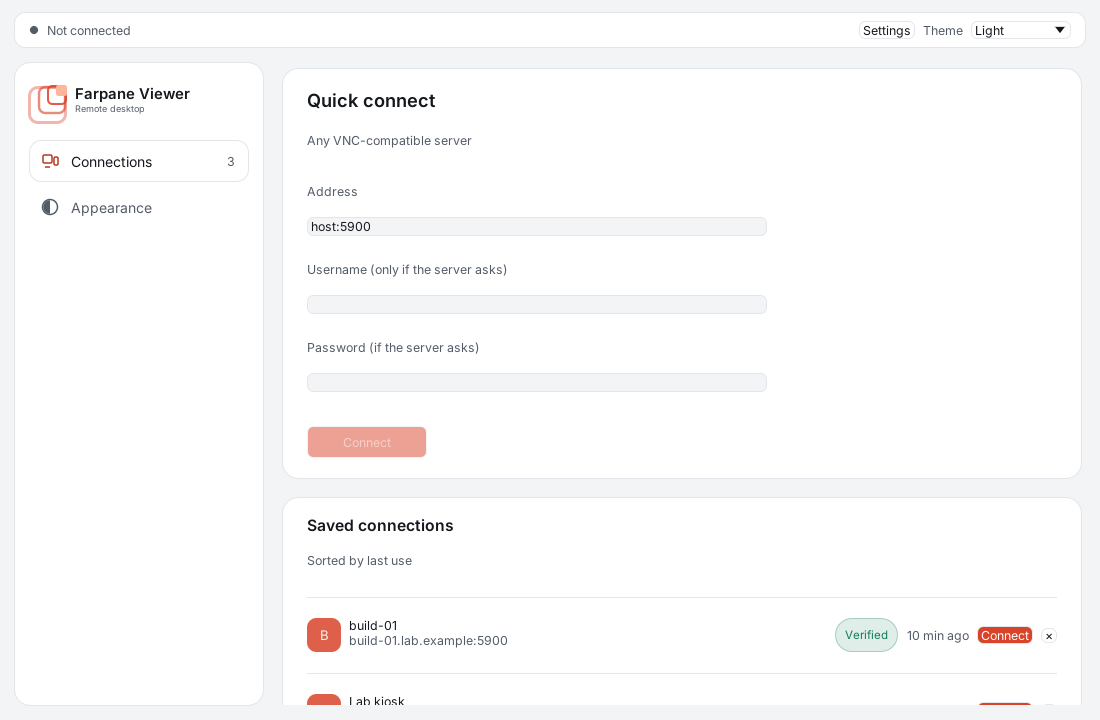
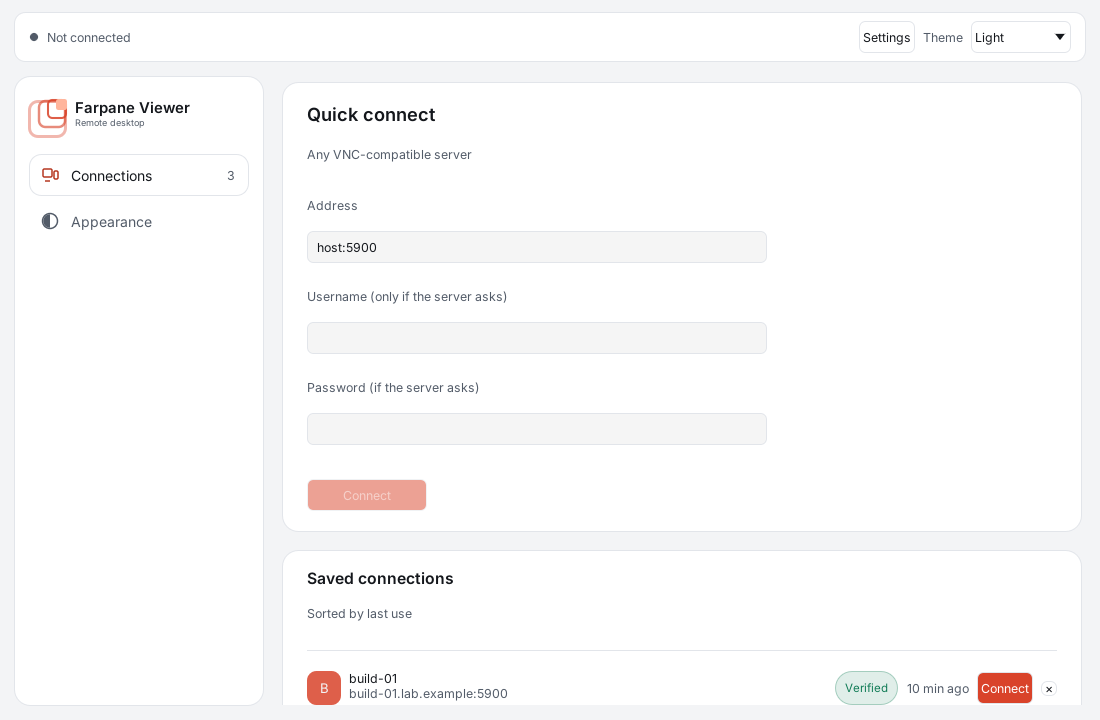
ui: one control height for buttons, text fields and drop-down lists
style::CONTROL_HEIGHT (32) is the interact size, and widgets::text_field gives single-line inputs that height with centred text and the translucent inset fill the search box had. Handbook screenshots retaken.

diff --git a/apps/farpane-server/src/dashboard.rs b/apps/farpane-server/src/dashboard.rs
@@ -814,19 +814,11 @@ impl Dashboard {
                 // Window width, not what is left: the controls only fit in a wide window.
                 let width = ui.ctx().screen_rect().width();
                 if width >= 1100.0 {
-                    egui::Frame::NONE
-                        .fill(inset(tokens))
-                        .stroke(egui::Stroke::new(1.0_f32, Color32::from(tokens.line)))
-                        .corner_radius(style::radius(10.0))
-                        .inner_margin(Margin::symmetric(10, 4))
-                        .show(ui, |ui| {
-                            ui.add(
-                                egui::TextEdit::singleline(&mut self.search)
-                                    .hint_text("Search clients and events")
-                                    .frame(false)
-                                    .desired_width(220.0),
-                            );
-                        });
+                    ui.add(
+                        widgets::text_field(&mut self.search)
+                            .hint_text("Search clients and events")
+                            .desired_width(220.0),
+                    );
                 }
                 ui.with_layout(Layout::right_to_left(Align::Center), |ui| {
                     self.theme_switch(ui, tokens);
@@ -839,7 +831,7 @@ impl Dashboard {
                         let button =
                             egui::Button::new(RichText::new(label).color(Color32::WHITE).strong())
                                 .fill(Color32::from(tokens.accent))
-                                .min_size(vec2(0.0, 32.0));
+                                .min_size(vec2(0.0, style::CONTROL_HEIGHT));
                         if ui.add(button).clicked() {
                             self.backend.set_paused(!paused);
                             self.log.push(
@@ -1246,7 +1238,7 @@ impl Dashboard {
                             RichText::new("Allow").color(Color32::WHITE).strong(),
                         )
                         .fill(Color32::from(tokens.accent))
-                        .min_size(vec2(90.0, 32.0));
+                        .min_size(vec2(90.0, style::CONTROL_HEIGHT));
                         if ui.add(allow).clicked() {
                             answer = Some((request.clone(), rfb_server::Decision::Allow));
                         }
@@ -1617,10 +1609,10 @@ impl Dashboard {
                 .spacing([12.0, 6.0])
                 .show(ui, |ui| {
                     ui.label("User name");
-                    ui.text_edit_singleline(&mut self.users.name);
+                    ui.add(widgets::text_field(&mut self.users.name));
                     ui.end_row();
                     ui.label("Display name");
-                    ui.text_edit_singleline(&mut self.users.display_name);
+                    ui.add(widgets::text_field(&mut self.users.display_name));
                     ui.end_row();
                     ui.label("Role");
                     egui::ComboBox::from_id_salt("new-role")
@@ -1632,7 +1624,7 @@ impl Dashboard {
                         });
                     ui.end_row();
                     ui.label("Password");
-                    ui.add(egui::TextEdit::singleline(&mut self.users.password).password(true));
+                    ui.add(widgets::text_field(&mut self.users.password).password(true));
                     ui.end_row();
                 });
             if ui.button("Add user").clicked() {
@@ -1717,7 +1709,7 @@ impl Dashboard {
             );
             ui.horizontal(|ui| {
                 ui.label("Listen on");
-                ui.text_edit_singleline(&mut self.security.listen_text);
+                ui.add(widgets::text_field(&mut self.security.listen_text));
             });
             ui.checkbox(
                 &mut self.security.edit.h264,
@@ -1727,7 +1719,7 @@ impl Dashboard {
             ui.horizontal(|ui| {
                 ui.label("WebSocket for browsers");
                 ui.add(
-                    egui::TextEdit::singleline(&mut self.security.ws_text)
+                    widgets::text_field(&mut self.security.ws_text)
                         .hint_text("empty: off, or 0.0.0.0:5800"),
                 );
             });

diff --git a/apps/farpane-viewer/src/app.rs b/apps/farpane-viewer/src/app.rs
@@ -9,7 +9,7 @@ use std::{
 
 use egui::{
     Align, Color32, ColorImage, Context, CursorIcon, EventFilter, Frame, Key, Layout, Margin,
-    RichText, Sense, TextEdit, TextureHandle, TextureOptions, UserData, ViewportCommand, vec2,
+    RichText, Sense, TextureHandle, TextureOptions, UserData, ViewportCommand, vec2,
 };
 use farpane_grab::GrabState;
 use farpane_ui::{Accent, ThemePreference, Tokens, style, widgets};
@@ -1681,7 +1681,7 @@ impl ViewerApp {
                                 ui.label(RichText::new("Address").color(tokens.muted));
                                 let addr = ui.add_enabled(
                                     !connecting,
-                                    TextEdit::singleline(&mut self.addr)
+                                    widgets::text_field(&mut self.addr)
                                         .hint_text("host:5900")
                                         .desired_width(f32::INFINITY),
                                 );
@@ -1692,7 +1692,7 @@ impl ViewerApp {
                                 );
                                 ui.add_enabled(
                                     !connecting,
-                                    TextEdit::singleline(&mut self.username)
+                                    widgets::text_field(&mut self.username)
                                         .desired_width(f32::INFINITY),
                                 );
                                 ui.add_space(8.0);
@@ -1702,7 +1702,7 @@ impl ViewerApp {
                                 );
                                 let password = ui.add_enabled(
                                     !connecting,
-                                    TextEdit::singleline(&mut self.password)
+                                    widgets::text_field(&mut self.password)
                                         .password(true)
                                         .desired_width(f32::INFINITY),
                                 );
@@ -1719,7 +1719,7 @@ impl ViewerApp {
                                         RichText::new(label).color(Color32::WHITE).strong(),
                                     )
                                     .fill(Color32::from(tokens.accent))
-                                    .min_size(vec2(120.0, 32.0));
+                                    .min_size(vec2(120.0, style::CONTROL_HEIGHT));
                                     let can = !connecting && !self.addr.trim().is_empty();
                                     let clicked = ui.add_enabled(can, button).clicked();
                                     if can && (clicked || submit) {

diff --git a/crates/farpane-ui/src/style.rs b/crates/farpane-ui/src/style.rs
@@ -21,6 +21,9 @@ pub fn radius(px: f32) -> CornerRadius {
     CornerRadius::same(px.round().clamp(0.0, 255.0) as u8)
 }
 
+/// Height of every control: buttons, text fields and drop-down lists.
+pub const CONTROL_HEIGHT: f32 = 32.0;
+
 /// egui visuals for `tokens`.
 #[must_use]
 pub fn visuals(tokens: &Tokens) -> Visuals {
@@ -42,7 +45,8 @@ pub fn visuals(tokens: &Tokens) -> Visuals {
     v.window_stroke = line;
     v.window_corner_radius = radius(tokens.radius);
     v.menu_corner_radius = widget_radius;
-    v.extreme_bg_color = tokens.bg.into();
+    // Text fields: the same translucent inset as the search box of the mockups.
+    v.extreme_bg_color = crate::widgets::inset(tokens);
     v.faint_bg_color = card;
     v.hyperlink_color = tokens.accent_text.into();
     v.warn_fg_color = tokens.amber.into();
@@ -139,6 +143,7 @@ fn install_fonts(ctx: &egui::Context, plex: bool) {
 /// Apply `tokens` to `ctx`: visuals and, when the theme changed, its font.
 pub fn apply(ctx: &egui::Context, tokens: &Tokens) {
     ctx.set_visuals(visuals(tokens));
+    ctx.style_mut(|style| style.spacing.interact_size.y = CONTROL_HEIGHT);
     let id = egui::Id::new("farpane-font-is-plex");
     if ctx.data(|d| d.get_temp::<bool>(id)) != Some(tokens.plex) {
         install_fonts(ctx, tokens.plex);

diff --git a/crates/farpane-ui/src/widgets.rs b/crates/farpane-ui/src/widgets.rs
@@ -192,6 +192,15 @@ pub fn brand_mark(ui: &mut Ui, tokens: &crate::theme::Tokens, size: f32) {
     );
 }
 
+/// A single-line text field as tall as every other control
+/// ([`crate::style::CONTROL_HEIGHT`]), its text centred.
+pub fn text_field(text: &mut String) -> egui::TextEdit<'_> {
+    egui::TextEdit::singleline(text)
+        .margin(egui::Margin::symmetric(10, 0))
+        .vertical_align(egui::Align::Center)
+        .min_size(egui::vec2(0.0, crate::style::CONTROL_HEIGHT))
+}
+
 /// A row of the side bar. Returns whether it was clicked.
 pub fn nav_item(
     ui: &mut Ui,
